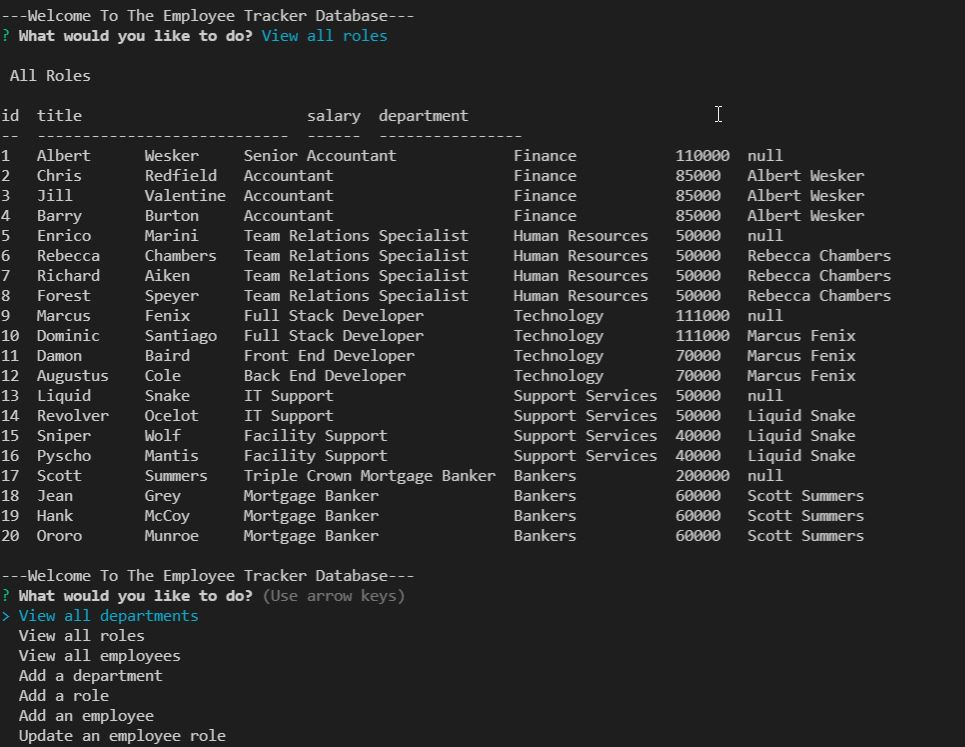
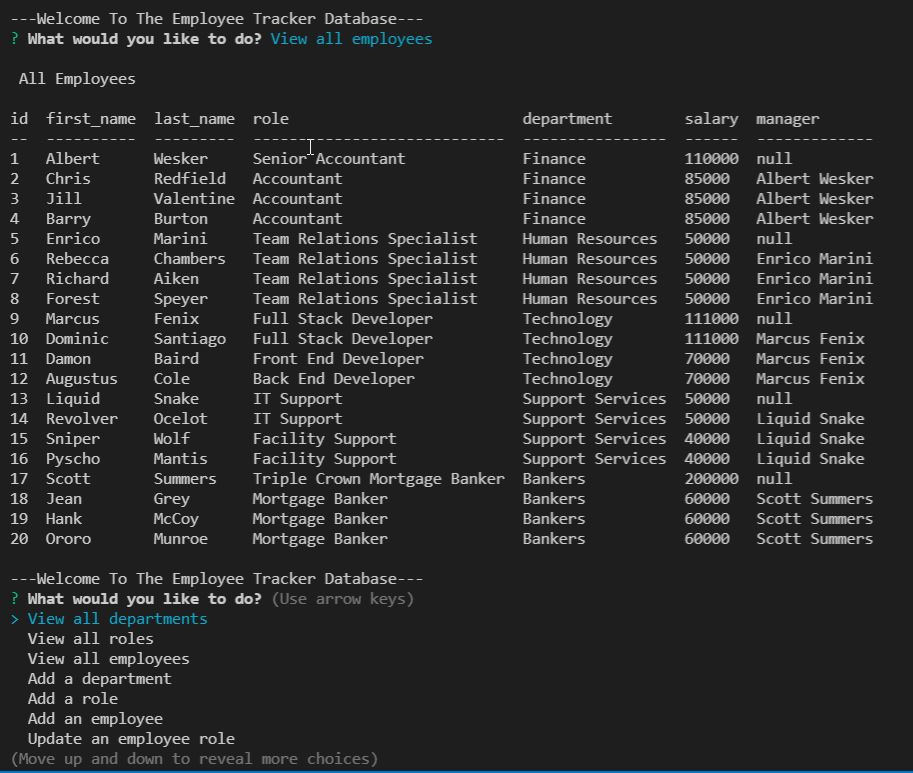
Finished functions. Updated readme

Changed region(s): [[0.0, 0.0924, 1.0, 1.0], [0.0, 0.0, 0.4907, 0.0616]]

diff --git a/server.js b/server.js
@@ -1,7 +1,7 @@
 const inquirer = require('inquirer');
 const cTable = require('console.table');
 const connection = require('./utils/connection');
-const getDepartments = require ('./utils/queryDB');
+const {getDepartments, getRoles, getEmployees} = require ('./utils/queryDB');
 
 // Starter menu
 function startEmployeeTracker() {
@@ -33,8 +33,8 @@ function startEmployeeTracker() {
               break;
   
             case "View all employees":
-               viewAllEmployees();
-               break;
+              viewAllEmployees();
+              break;
   
             case "Add a department":
               addDepartment();
@@ -45,17 +45,17 @@ function startEmployeeTracker() {
               break;
   
             case "Add an employee":
-                addEmployee();
-                break;
+              addEmployee();
+              break;
   
             case "Update an employee role":
-                updateEmployeeRole();
-                break;
+              updateEmployeeRole();
+              break;
             
             case "Exit":
-                console.log("Leaving the Employee Tracker Database!");
-                connection.end();
-                break
+              console.log("Leaving the Employee Tracker Database!");
+              connection.end();
+              break;
       }
     });
 };
@@ -112,27 +112,27 @@ function addDepartment() {
 
 // Add a role to our DB
 function addRole () {
- 
   let departmentNamesArr = [];
-  let departmentArray = [];
-
+  
   getDepartments().then((rows) => {  
-      let departmentArray = rows[0];          
-      for (var i=0; i < departmentArray.length; i++) {
-        let department = departmentArray[i].name;
-        departmentNamesArr.push(department);
-      };
+    
+    let departmentArray = rows[0];          
+    
+    for (var i=0; i < departmentArray.length; i++) {
+      let department = departmentArray[i].name;
+      departmentNamesArr.push(department);
+    };
       
     inquirer.prompt([
     {
         type: "input",
         name: "roleTitle",
-        message: "What is the new role title? "
+        message: "What is the new role's title? "
     },
     {
         type: "number",
         name: "salary",
-        message: "What is the new role salary? "
+        message: "What is the new role's salary? "
     },
     {   
         type: "list",
@@ -142,11 +142,9 @@ function addRole () {
     }])
     .then((response) => {   
       let departmentID;
-      console.log(departmentArray.length)
       for (let i=0; i < departmentArray.length; i++) {
         if (response.department === departmentArray[i].name) {
           departmentID = departmentArray[i].id;
-          console.log(departmentID)
           break;
         };
       };
@@ -160,10 +158,153 @@ function addRole () {
         if (err) throw err;
         console.log(response.roleTitle + ' added to roles!\n');
         startEmployeeTracker();
-      });     
+        });     
     });
   });
 };
 
+// Add employee to our DB 
+function addEmployee () {
+  getEmployees().then((employees) => {
+      let employeeNamesArr = []
+      let employeesArray = employees[0]
+      for (var i=0; i < employeesArray.length; i++) {
+        let employee = employeesArray[i].first_name + ' ' + employeesArray[i].last_name
+        employeeNamesArr.push(employee)
+      }
+      
+      getRoles()
+       .then((roles) => {
+        let roleTitlesArr = []
+        let rolesArray = roles[0]
+        for (var i=0; i < rolesArray.length; i++) {
+          let role = rolesArray[i].title
+          roleTitlesArr.push(role)
+        }
+          
+        inquirer.prompt ([
+          {
+            type: 'input',
+            name: 'firstName',
+            message: 'Enter the first name of the employee: '
+          },
+          {
+            type: 'input',
+            name:'lastName',
+            message: 'Enter the last name of the employee: '
+          },
+          {
+            type: 'list',
+            name: 'role',
+            message: 'Choose the role of the employee: ',
+            choices: roleTitlesArr
+          },
+          {
+            type: 'list',
+            name: 'manager',
+            message: 'Choose the manager of the employee: ',
+            choices: employeeNamesArr
+          }])
+          .then(function(input) {
+            let roleID
+            for (let i=0; i < rolesArray.length; i++) {
+              if (input.role === rolesArray[i].title) {
+              roleID = rolesArray[i].id;
+              break
+              }
+            }
 
- startEmployeeTracker();
+            let managerID
+            for (let i=0; i < employeesArray.length; i++) {
+              if (input.manager === employeesArray[i].first_name + ' ' + employeesArray[i].last_name) {
+                managerID = employeesArray[i].id;
+                break
+              }
+            }
+            
+            const query = connection.query( 'INSERT INTO Employees SET ?',
+              {
+                first_name: input.firstName,
+                last_name: input.lastName,
+                role_id: roleID,
+                manager_id: managerID
+              },
+              function(err, res) {
+                if (err) throw err;
+                console.log('Employee ' + input.firstName + ' ' + input.lastName + ' added!\n');
+                startEmployeeTracker();
+              });
+        });
+      });
+    });
+};
+
+// Update an existing employee role in our DB
+function updateEmployeeRole() {
+  getEmployees().then((employees) => {
+      let employeeNamesArr = []
+      let employeesArray = employees[0]
+      
+      for (var i=0; i < employeesArray.length; i++) {
+        let employee = employeesArray[i].first_name + ' ' + employeesArray[i].last_name
+        employeeNamesArr.push(employee)
+      }
+      
+      getRoles().then((roles) => {
+        let roleTitlesArr = []
+        let rolesArray = roles[0]
+        for (var i=0; i < rolesArray.length; i++) {
+          let role = rolesArray[i].title
+          roleTitlesArr.push(role)
+        }   
+
+      inquirer.prompt([
+           {
+             type: "list",
+             name: "employee",
+             message: "Which employee's role would you like to update?",
+             choices: employeeNamesArr
+           },
+           {
+             type: "list",
+             name: "role",
+             message: "What is their new role?",
+             choices: roleTitlesArr
+           }])
+         .then((input) => {
+          let roleID
+          for (let i=0; i < rolesArray.length; i++) {
+            if (input.role === rolesArray[i].title) {
+            roleID = rolesArray[i].id;
+            break
+            }
+          }
+
+          let employeeID
+          for (let i=0; i < employeesArray.length; i++) {
+            if (input.employee === employeesArray[i].first_name + ' ' + employeesArray[i].last_name) {
+              employeeID = employeesArray[i].id;
+              break
+            }
+          }
+      
+          connection.query('UPDATE employees SET ? WHERE ?', [
+                  {
+                    role_id: roleID
+                  },
+                  {
+                    id: employeeID
+                  }
+                ],
+                function(err, res) {
+                  if (err) throw err;
+                  console.log('Role updated!\n');
+                  startEmployeeTracker();
+                }
+            );
+          });
+        });
+    });
+};
+
+startEmployeeTracker();

diff --git a/utils/queryDB.js b/utils/queryDB.js
@@ -4,4 +4,15 @@ function getDepartments() {
     return connection.promise().query("SELECT * FROM departments")
 };
 
-module.exports = getDepartments;
+function getRoles() {
+    return connection.promise().query("SELECT * FROM roles")
+};
+  
+function getEmployees () {
+    return connection.promise().query("SELECT * FROM employees")
+};
+
+module.exports = {
+    getDepartments,
+    getRoles,
+    getEmployees }

diff --git a/README.md b/README.md
@@ -14,6 +14,7 @@ A Javascript program to query an SQL database with employee information.
 <img src="./images/the-employee-tracker-screenshot.jpg" alt="Screenshot of the Employee Tracker"></img>
 
 ## Demonstration Video
+https://drive.google.com/file/d/1MD_Ss87bi7ByDkg_kSLv12TgwyybZ80M/view
                       
 ## Installation
 Navigate to the folder containing server.js and run "npm start" in the terminal. Must have NPM packages, Inquirer, MySQL2 and console.table installed.
